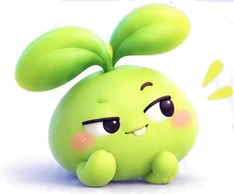
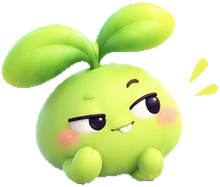
feat(home): Lá says today's card line; clean mascot cut-out
- The Home bubble now shows sections.companion (content matrix, voiced by
  the API, written by Luna for generated cards); legacy notes keep the
  day-part greeting. Tests cover the helper and the rendered bubble.
- sprout-3d.png re-cut by flood-filling the background from the edges, so
  the eyes and teeth stay opaque and there is no ground shadow or halo in
  dark mode. The light-mode multiply blend (which tinted the eyes) is
  replaced by a CSS drop shadow in both themes.

diff --git a/apps/web/src/shared/styles/ultraviolet.css b/apps/web/src/shared/styles/ultraviolet.css
@@ -329,7 +329,8 @@
 /* Lá's row: sprout + one bubble, which doubles as the single "Lá nhắc" slot. */
 :root .ultraviolet-app .home-la-row { display: flex; margin-top: 0.875rem; align-items: center; gap: 0.625rem; }
 :root .ultraviolet-app .home-la-row__sprout { width: 118px; height: 98px; flex: none; margin-left: -6px; object-fit: contain; transform-origin: 50% 92%; }
-:root:not([data-theme="dark"]) .ultraviolet-app .home-la-row__sprout { mix-blend-mode: multiply; }
+:root .ultraviolet-app .home-la-row__sprout { filter: drop-shadow(0 10px 8px rgba(31, 24, 56, 0.16)); }
+:root[data-theme="dark"] .ultraviolet-app .home-la-row__sprout { filter: drop-shadow(0 10px 10px rgba(0, 0, 0, 0.45)); }
 :root .ultraviolet-app .home-la-row__bubble { position: relative; min-width: 0; flex: 1; padding: 0.75rem 2.5rem 0.75rem 1rem; border: 1px solid var(--uv-line); border-radius: 20px; color: var(--uv-text); background: var(--uv-surface); box-shadow: var(--uv-shadow-1); }
 :root .ultraviolet-app .home-la-row__bubble--notice { padding: 0.75rem 2.5rem 0.375rem 1rem; }
 :root .ultraviolet-app .home-la-row__line { margin: 0; color: var(--uv-text); font-size: 0.875rem; line-height: 1.45; }
@@ -1264,7 +1265,8 @@
 :root .ultraviolet-app .saved-page > .success-message .text-link { min-height: 2.5rem; padding: 0 0.75rem; border: 0; color: var(--uv-leaf); background: transparent; font-weight: 700; }
 :root[data-theme="dark"] .ultraviolet-app .saved-page > .success-message { background: #2c2452; }
 :root .ultraviolet-app .saved-empty__sprout { width: 140px; height: 116px; margin: 0 auto 1rem; object-fit: contain; }
-:root:not([data-theme="dark"]) .ultraviolet-app .saved-empty__sprout { mix-blend-mode: multiply; }
+:root .ultraviolet-app .saved-empty__sprout { filter: drop-shadow(0 10px 8px rgba(31, 24, 56, 0.16)); }
+:root[data-theme="dark"] .ultraviolet-app .saved-empty__sprout { filter: drop-shadow(0 10px 10px rgba(0, 0, 0, 0.45)); }
 :root .ultraviolet-app .saved-empty h2 { margin: 0; font-size: 1.3125rem; }
 /* Share card: story/square toggle, the art, one primary + secondaries. */
 :root .ultraviolet-app .card-page .format-toggle { display: grid; margin-top: 0.75rem; grid-template-columns: 1fr 1fr; }

diff --git a/apps/web/src/features/home/companionLine.ts b/apps/web/src/features/home/companionLine.ts
@@ -1,4 +1,4 @@
-import { laGreeting } from "../../shared/ui/la/laVoice";
+import { laGreeting, laNoteLine } from "../../shared/ui/la/laVoice";
 import type { AppVibe } from "../../shared/vibe/vibe";
 
 export type HomeCompanionState = "idle" | "loading" | "error";
@@ -10,19 +10,24 @@ export const HOME_ERROR_LINE = "Trong lúc chờ, bạn vẫn rút Tarot đượ
 
 /**
  * The one short line Lá says in the Home bubble when no ritual notice needs
- * the slot. Idle reuses Lá's existing direct/roast day-part greeting from
- * laVoice; copy there is owned separately and not changed here.
+ * the slot. With today's card it is the card's own line (`sections.companion`,
+ * already voiced by the API and written by Luna for generated cards; content
+ * matrix in readings/companion.py). Without a card (legacy note) Lá greets by
+ * time of day.
  */
 export function homeCompanionLine({
   state = "idle",
   vibe = "direct",
   now = new Date(),
+  companion,
 }: {
   state?: HomeCompanionState;
   vibe?: AppVibe;
   now?: Date;
+  companion?: string | null;
 } = {}): { text: string } {
   if (state === "loading") return { text: HOME_LOADING_LINE };
   if (state === "error") return { text: HOME_ERROR_LINE };
+  if (companion?.trim()) return { text: laNoteLine(companion, vibe) };
   return { text: laGreeting(now, vibe).line };
 }

diff --git a/apps/web/src/shared/ui/la/la.css b/apps/web/src/shared/ui/la/la.css
@@ -53,7 +53,8 @@
 .la-loading.is-visible { opacity: 1; }
 .la-loading--page { min-height: 52vh; align-content: center; justify-items: center; padding: 32px 16px; text-align: center; }
 .la-loading__sprout { width: 118px; height: 98px; object-fit: contain; transform-origin: 50% 92%; animation: la-breathe 4.2s ease-in-out infinite; }
-:root:not([data-theme="dark"]) .la-loading__sprout { mix-blend-mode: multiply; }
+:root .la-loading__sprout { filter: drop-shadow(0 10px 8px rgba(31, 24, 56, 0.16)); }
+:root[data-theme="dark"] .la-loading__sprout { filter: drop-shadow(0 10px 10px rgba(0, 0, 0, 0.45)); }
 .la-loading__line { display: flex; margin: 0; align-items: center; gap: 10px; color: var(--uv-text, #1f1838); font-size: 15px; font-weight: 500; }
 .la-loading--page .la-loading__line { justify-content: center; font-weight: 600; }
 .la-loading__skeleton { display: grid; gap: 12px; }

diff --git a/apps/web/src/features/home/HomePage.test.tsx b/apps/web/src/features/home/HomePage.test.tsx
@@ -135,6 +135,14 @@ describe("HomePage rich reading", () => {
     expect(within(noteRegion).queryByText(/Đọc từ (dữ liệu ngày sinh|lá số đầy đủ)/)).not.toBeInTheDocument();
   });
 
+  it("lets Lá say the card's own line from the content matrix", async () => {
+    const withLine = { ...vibe, sections: { ...vibe.sections, companion: "Hỏi lại một câu thôi, đỡ hơn đoán cả buổi." } };
+    vi.mocked(getDailyNote).mockResolvedValue(noteWith(projection(withLine)));
+    renderPage();
+
+    expect(await screen.findByText("Hỏi lại một câu thôi, đỡ hơn đoán cả buổi.")).toBeInTheDocument();
+  });
+
   it("keeps the value promise and routes available when the daily note fails", async () => {
     vi.mocked(getDailyNote).mockRejectedValue(new Error("offline"));
     renderPage();

diff --git a/apps/web/src/features/home/HomeRituals.test.tsx b/apps/web/src/features/home/HomeRituals.test.tsx
@@ -74,6 +74,10 @@ describe("homeCompanionLine", () => {
     expect(homeCompanionLine({ now: morning, vibe: "roast" }).text).not.toBe(homeCompanionLine({ now: morning }).text);
     expect(homeCompanionLine({ state: "loading" }).text).toBe(HOME_LOADING_LINE);
     expect(homeCompanionLine({ state: "error" }).text).toBe(HOME_ERROR_LINE);
+    // Today's card brings its own (already voiced) line from the content matrix.
+    expect(homeCompanionLine({ now: morning, companion: "Hỏi lại một câu thôi, đỡ hơn đoán cả buổi." }).text)
+      .toBe("Hỏi lại một câu thôi, đỡ hơn đoán cả buổi.");
+    expect(homeCompanionLine({ now: morning, companion: "  " }).text).toContain("buổi sáng");
   });
 });
 

diff --git a/apps/web/src/features/home/HomePage.tsx b/apps/web/src/features/home/HomePage.tsx
@@ -349,7 +349,7 @@ export function HomePage() {
         </section>
       )}
 
-      <HomeCompanion line={lineDismissed ? null : homeCompanionLine({ vibe }).text} onDismissLine={() => setLineDismissed(true)}>
+      <HomeCompanion line={lineDismissed ? null : homeCompanionLine({ vibe, companion: activeReading?.sections.companion }).text} onDismissLine={() => setLineDismissed(true)}>
         {showGift && availableUpdate && note.reading_projection ? (
           <ReadingUpdateGift
             activeMode={activeReading?.mode}
